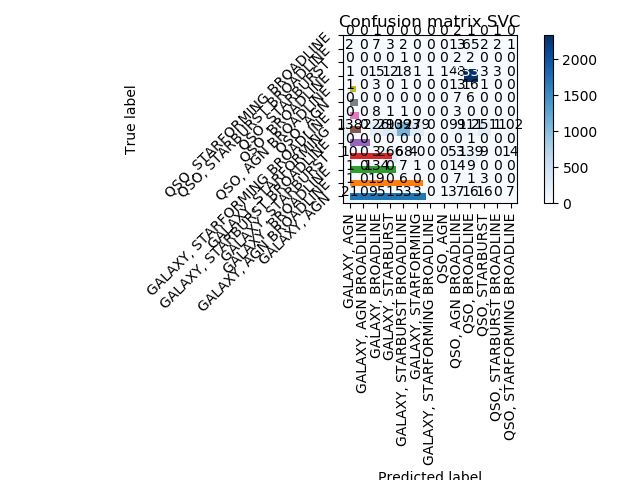
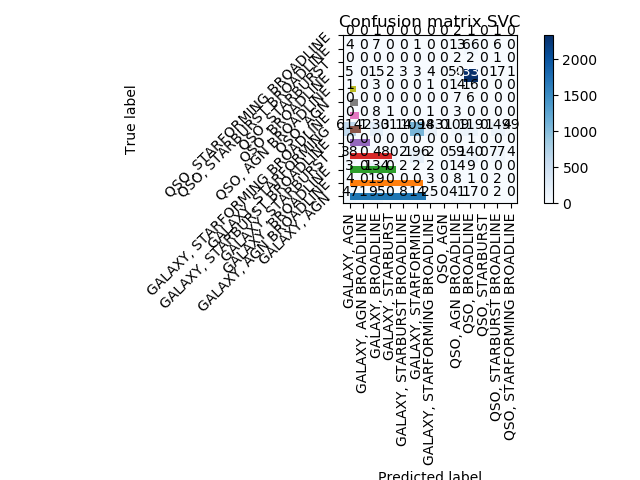
task 2/38 accomplished

diff --git a/ML_subclasses.py b/ML_subclasses.py
@@ -64,8 +64,31 @@ def prepare_data_subclass_galaxies(input_table, trim_columns, train_percent=0.7,
     data_table = data_table.replace(np.nan, 'X', regex=True)
     data_table.drop(index=data_table[data_table['subclass']=='X'].index,inplace=True)
     
+    data_table['subclass'].unique()
+    
+    # Create dummy labels for the class-subclass combination
+    data_table['ClassAndSubclass'] = ''
+    data_table['ClassAndSubclass'][(data_table['class']=='GALAXY') & (data_table['subclass']=='STARFORMING')] = 'G STF'
+    data_table['ClassAndSubclass'][(data_table['class']=='GALAXY') & (data_table['subclass']=='BROADLINE')] = 'G BRL'
+    data_table['ClassAndSubclass'][(data_table['class']=='GALAXY') & (data_table['subclass']=='STARBURST')] = 'G STB'
+    data_table['ClassAndSubclass'][(data_table['class']=='GALAXY') & (data_table['subclass']=='AGN')] = 'G AGN'
+    data_table['ClassAndSubclass'][(data_table['class']=='GALAXY') & (data_table['subclass']=='AGN BROADLINE')] = 'G AGNB'    
+    data_table['ClassAndSubclass'][(data_table['class']=='GALAXY') & (data_table['subclass']=='STARBURST BROADLINE')] = 'G STBR'
+    data_table['ClassAndSubclass'][(data_table['class']=='GALAXY') & (data_table['subclass']=='STARFORMING BROADLINE')] = 'G STFBR'
+
+    data_table['ClassAndSubclass'][(data_table['class']=='QSO') & (data_table['subclass']=='STARFORMING')] = 'Q STF'
+    data_table['ClassAndSubclass'][(data_table['class']=='QSO') & (data_table['subclass']=='BROADLINE')] = 'Q BRL'
+    data_table['ClassAndSubclass'][(data_table['class']=='QSO') & (data_table['subclass']=='STARBURST')] = 'Q STB'  
+    data_table['ClassAndSubclass'][(data_table['class']=='QSO') & (data_table['subclass']=='AGN')] = 'Q AGN'  
+    data_table['ClassAndSubclass'][(data_table['class']=='QSO') & (data_table['subclass']=='AGN BROADLINE')] = 'Q AGNB'      
+    data_table['ClassAndSubclass'][(data_table['class']=='QSO') & (data_table['subclass']=='STARBURST BROADLINE')] = 'Q STBR'   
+    data_table['ClassAndSubclass'][(data_table['class']=='QSO') & (data_table['subclass']=='STARFORMING BROADLINE')] = 'Q STFBR'
+    
+    
+    
+    
     # save the classes to predict        
-    data_table['ClassAndSubclass'] = data_table['class'] +', '+ data_table['subclass']
+    #data_table['ClassAndSubclass'] = data_table['class'] +', '+ data_table['subclass']
     classes=data_table['ClassAndSubclass']
 
     #trim away unwanted columns    
@@ -179,7 +202,7 @@ def linear_classifier(data,train_percent,n_jobs=-1,additionalFeatures=False,dire
     # check accuracy and other metrics:
     classes_pred = pipeline.predict(data['features_test'])
     accuracy=(accuracy_score(data['classes_test'], classes_pred))
-    f1 = f1_score(data['classes_test'],classes_pred,labels=data['class_names'],average='weighted')
+    f1 = f1_score(data['classes_test'],classes_pred,average='weighted')
     
     #plot_feature_importance(data,pipeline,title='Feature Importance LogisticReg')
     
@@ -201,8 +224,10 @@ def linear_classifier(data,train_percent,n_jobs=-1,additionalFeatures=False,dire
     print('Finished Feature importance plotting.')
     if(additionalFeatures):
         plt.savefig(directory+'LinearFeatureImportanceAdditionalFeatures.png')
+        plt.gcf().clear()
     else:
         plt.savefig(directory+'LinearFeatureImportance.png')
+        plt.gcf().clear()
     
     return classes_pred,accuracy,f1
     
@@ -248,7 +273,7 @@ if __name__ == "__main__":
     
     data, scaler = prepare_data_subclass_galaxies(input_table,trim_columns,train_percent=0.7,additionalFeatures=False)
     
-    directory = 'MLsubclass/'
+    directory = 'MLsubclass_2802/'
     if not os.path.exists(directory):
         os.makedirs(directory)
     

diff --git a/plot_confusion_matrix.py b/plot_confusion_matrix.py
@@ -1,0 +1,101 @@
+"""
+================
+Confusion matrix
+================
+
+Example of confusion matrix usage to evaluate the quality
+of the output of a classifier on the iris data set. The
+diagonal elements represent the number of points for which
+the predicted label is equal to the true label, while
+off-diagonal elements are those that are mislabeled by the
+classifier. The higher the diagonal values of the confusion
+matrix the better, indicating many correct predictions.
+
+The figures show the confusion matrix with and without
+normalization by class support size (number of elements
+in each class). This kind of normalization can be
+interesting in case of class imbalance to have a more
+visual interpretation of which class is being misclassified.
+
+Here the results are not as good as they could be as our
+choice for the regularization parameter C was not the best.
+In real life applications this parameter is usually chosen
+using :ref:`grid_search`.
+
+"""
+
+print(__doc__)
+
+import itertools
+import numpy as np
+import matplotlib.pyplot as plt
+
+from sklearn import svm, datasets
+from sklearn.model_selection import train_test_split
+from sklearn.metrics import confusion_matrix
+
+# import some data to play with
+iris = datasets.load_iris()
+X = iris.data
+y = iris.target
+class_names = iris.target_names
+
+# Split the data into a training set and a test set
+X_train, X_test, y_train, y_test = train_test_split(X, y, random_state=0)
+
+# Run classifier, using a model that is too regularized (C too low) to see
+# the impact on the results
+classifier = svm.SVC(kernel='linear', C=0.01)
+y_pred = classifier.fit(X_train, y_train).predict(X_test)
+
+
+def plot_confusion_matrix(cm, classes,
+                          normalize=False,
+                          title='Confusion matrix',
+                          cmap=plt.cm.Blues):
+    """
+    This function prints and plots the confusion matrix.
+    Normalization can be applied by setting `normalize=True`.
+    """
+    if normalize:
+        cm = cm.astype('float') / cm.sum(axis=1)[:, np.newaxis]
+        print("Normalized confusion matrix")
+    else:
+        print('Confusion matrix, without normalization')
+
+    print(cm)
+
+    plt.imshow(cm, interpolation='nearest', cmap=cmap)
+    plt.title(title)
+    plt.colorbar()
+    tick_marks = np.arange(len(classes))
+    plt.xticks(tick_marks, classes, rotation=45)
+    plt.yticks(tick_marks, classes)
+
+    fmt = '.2f' if normalize else 'd'
+    thresh = cm.max() / 2.
+    for i, j in itertools.product(range(cm.shape[0]), range(cm.shape[1])):
+        plt.text(j, i, format(cm[i, j], fmt),
+                 horizontalalignment="center",
+                 color="white" if cm[i, j] > thresh else "black")
+
+    plt.ylabel('True label')
+    plt.xlabel('Predicted label')
+    plt.tight_layout()
+
+
+# Compute confusion matrix
+cnf_matrix = confusion_matrix(y_test, y_pred)
+np.set_printoptions(precision=2)
+
+# Plot non-normalized confusion matrix
+plt.figure()
+plot_confusion_matrix(cnf_matrix, classes=class_names,
+                      title='Confusion matrix, without normalization')
+
+# Plot normalized confusion matrix
+plt.figure()
+plot_confusion_matrix(cnf_matrix, classes=class_names, normalize=True,
+                      title='Normalized confusion matrix')
+
+plt.show()
